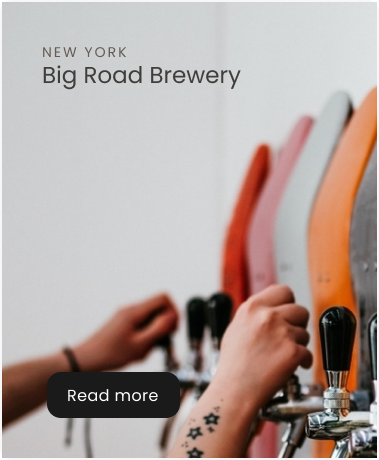
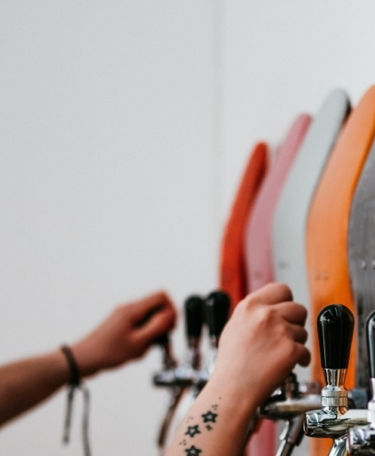
add 9 block and animation grow

diff --git a/src/css/style.min.css b/src/css/style.min.css
@@ -1,1 +1,1 @@
-*{-webkit-box-sizing:border-box;box-sizing:border-box;font-family:Poppins,sans-serif}.container{max-width:1140px;margin:0 auto}.header{padding:36px 20px 35px 32px;min-height:90px;background:#fff;-webkit-box-shadow:11px 11px 25px 0px rgba(9,7,37,.06);box-shadow:11px 11px 25px 0px rgba(9,7,37,.06)}.header__inner{display:-webkit-box;display:-ms-flexbox;display:flex;-webkit-box-pack:justify;-ms-flex-pack:justify;justify-content:space-between;-webkit-box-align:center;-ms-flex-align:center;align-items:center}.header__logo{width:220px;cursor:pointer}.header__logo img{width:100%}.header__wrap{display:-webkit-box;display:-ms-flexbox;display:flex;-ms-flex-pack:distribute;justify-content:space-around;-webkit-box-align:center;-ms-flex-align:center;align-items:center}.header__item{display:-webkit-box;display:-ms-flexbox;display:flex;padding-left:0;margin-bottom:0;list-style-type:none}.header__items{padding-left:32px}.header__items a{text-decoration:none;color:#1b1a1a;font-family:Poppins;font-size:15px;font-weight:400;line-height:24px}.header__items a:hover{font-weight:bold}.header__items:nth-child(1){padding-left:0px}.header__items:nth-child(5){padding-right:32px}.header__btn{width:155px;height:46px;border-radius:14px;background:#1b1a1a;color:#fff;font-family:Poppins;font-size:16px;font-weight:400;line-height:24px;letter-spacing:.4px;cursor:pointer}.header__btn:hover{background-color:#00bfff;-webkit-transition:1.5s ease-in-out;transition:1.5s ease-in-out;-webkit-box-shadow:2px 5px 2px 3px rgba(106,81,94,.35);box-shadow:2px 5px 2px 3px rgba(106,81,94,.35)}.partners{min-height:720px;padding:77px 780px 77px 60px;background:#ece7e4 url(/src/images/bg-1.png) right no-repeat}.partners__wrap{padding:60px 51px 51px 40px}.partners__company title_uppercase{color:#645c55;font-family:Poppins;font-size:14px;font-weight:400;text-transform:uppercase}.partners__title{margin-top:20px;color:#1b1a1a;font-family:Poppins;font-size:64px;font-style:normal;line-height:70.4px}.partners__descr{width:509px;margin-top:18px;color:#403e3b;font-family:Poppins;font-size:16px;font-weight:400;line-height:24px}.partners__excerpt{margin-top:41px;color:#1b1a1a;font-family:Poppins;font-size:16px;font-weight:400;line-height:24px;letter-spacing:.4px}.firm{padding:100px 336px}.firm__wrap{display:-webkit-box;display:-ms-flexbox;display:flex;margin:0 auto;width:768px;height:582px}.firm__title{white-space:nowrap;color:#403e3b;font-family:Poppins;font-size:32px;font-weight:400;line-height:38px}.firm__descr{margin-left:133px}.firm__text{width:493px;margin-top:10px;color:#403e3b;font-family:Poppins;font-size:16px;font-weight:400;line-height:24px}.firm__text:nth-child(1){margin-top:0}.firm__director{display:-webkit-box;display:-ms-flexbox;display:flex;-webkit-box-align:center;-ms-flex-align:center;align-items:center;margin-top:18px}.firm__director-inner{margin-left:30px}.firm__director-name{color:#1b1a1a;font-family:Poppins;font-size:17px;font-weight:400;line-height:26px}.firm__director-position{color:#645c55;font-family:Poppins;font-size:14px;font-weight:400;line-height:14px}.reading{min-height:600px;background:url(/src/images/bg-2.jpg) center center/cover no-repeat;padding:266px 75px 266px 1080px}.reading__text{width:285px}.reading__title{color:#403e3b;font-family:Poppins;font-size:14px;font-weight:400;line-height:20px;letter-spacing:2px;text-transform:uppercase}.reading__descr{color:#645c55;font-family:Poppins;font-size:16px;font-weight:400;line-height:24px}.process{min-height:581px;padding:100px 120px}.process__heading{margin:0 auto;color:#645c55;text-align:center;font-family:Poppins;font-size:14px;font-weight:400;line-height:20px;letter-spacing:2px;text-transform:uppercase}.process__title{text-align:center;margin-top:13px;color:#1b1a1a;text-align:center;font-family:Poppins;font-size:39px;font-weight:400;line-height:42px}.process__inner{display:-webkit-box;display:-ms-flexbox;display:flex;-webkit-box-pack:center;-ms-flex-pack:center;justify-content:center;-webkit-box-align:center;-ms-flex-align:center;align-items:center;margin-top:47px}.process__work{padding:0px 42px 10px 42px;margin-left:16px;width:378px;height:259px}.process__work:nth-child(1){margin-left:0}.process__work-title{margin-top:15px;text-align:center;color:#403e3b;text-align:center;font-family:Poppins;font-size:18px;font-weight:400;line-height:26px}.process__work-descr{margin-top:10px;margin-bottom:0;text-align:center;color:#645c55;text-align:center;font-family:Poppins;font-size:15px;font-weight:400;line-height:24px}.process__img{display:block;margin:0 auto}.stage{min-height:600px;padding:266px 75px 266px 1080px;background:url(/src/images/bg3.png) center center/cover no-repeat}.stage__title{color:#403e3b;font-family:Poppins;font-size:14px;font-weight:400;line-height:20px;letter-spacing:2px;text-transform:uppercase}.stage__descr{color:#645c55;font-family:Poppins;font-size:16px;font-weight:400;line-height:24px}.clients{min-height:410px;padding:100px 320px 100px 136px;background-color:#403e3b}.clients__wrap{display:-webkit-box;display:-ms-flexbox;display:flex;-webkit-box-align:center;-ms-flex-align:center;align-items:center}.clients__costumers{padding:10px 9px 10px 0;width:460px;height:160px}.clients__heading{color:#ece7e4;font-family:Poppins;font-size:14px;font-weight:400;line-height:20px;letter-spacing:2px;text-transform:uppercase}.clients__title{color:#fff;font-family:Poppins;font-size:32px;font-weight:400;line-height:38px}.clients__descr{margin-top:14px;color:#ece7e4;font-family:Poppins;font-size:15px;font-weight:400;line-height:24px}.clients__lables{width:432px;height:290px;display:grid;grid-template-columns:repeat(2, 128px);-webkit-box-align:center;-ms-flex-align:center;align-items:center;gap:96px;padding:40px 40px;margin-left:132px}.staircase{min-height:600px;padding:266px 1095px 266px 60px;background:url(/src/images/bg-4.png) center center/cover no-repeat}.staircase__title{color:#403e3b;font-family:Poppins;font-size:14px;font-weight:400;line-height:20px;letter-spacing:2px;text-transform:uppercase}.staircase__descr{color:#645c55;font-family:Poppins;font-size:16px;font-weight:400;line-height:24px}/*# sourceMappingURL=style.min.css.map */
+@-webkit-keyframes animate-grow{from{-webkit-transform:scale(1);transform:scale(1)}50%{-webkit-transform:scale(1.1);transform:scale(1.1)}to{-webkit-transform:scale(1);transform:scale(1)}}@keyframes animate-grow{from{-webkit-transform:scale(1);transform:scale(1)}50%{-webkit-transform:scale(1.1);transform:scale(1.1)}to{-webkit-transform:scale(1);transform:scale(1)}}*{-webkit-box-sizing:border-box;box-sizing:border-box;font-family:Poppins,sans-serif}.container{max-width:1140px;margin:0 auto}.header{padding:36px 20px 35px 32px;min-height:90px;background:#fff;-webkit-box-shadow:11px 11px 25px 0px rgba(9,7,37,.06);box-shadow:11px 11px 25px 0px rgba(9,7,37,.06)}.header__inner{display:-webkit-box;display:-ms-flexbox;display:flex;-webkit-box-pack:justify;-ms-flex-pack:justify;justify-content:space-between;-webkit-box-align:center;-ms-flex-align:center;align-items:center}.header__logo{width:220px;cursor:pointer}.header__logo img{width:100%}.header__wrap{display:-webkit-box;display:-ms-flexbox;display:flex;-ms-flex-pack:distribute;justify-content:space-around;-webkit-box-align:center;-ms-flex-align:center;align-items:center}.header__item{display:-webkit-box;display:-ms-flexbox;display:flex;padding-left:0;margin-bottom:0;list-style-type:none}.header__items{padding-left:32px}.header__items a{text-decoration:none;color:#1b1a1a;font-family:Poppins;font-size:15px;font-weight:400;line-height:24px}.header__items a:hover{font-weight:bold}.header__items:nth-child(1){padding-left:0px}.header__items:nth-child(5){padding-right:32px}.header__btn{width:155px;height:46px;border-radius:14px;background:#1b1a1a;color:#fff;font-family:Poppins;font-size:16px;font-weight:400;line-height:24px;letter-spacing:.4px;cursor:pointer}.header__btn:hover{background-color:#00bfff;-webkit-transition:1.5s ease-in-out;transition:1.5s ease-in-out;-webkit-box-shadow:2px 5px 2px 3px rgba(106,81,94,.35);box-shadow:2px 5px 2px 3px rgba(106,81,94,.35)}.partners{min-height:720px;padding:77px 780px 77px 60px;background:#ece7e4 url(/src/images/bg-1.png) right no-repeat}.partners__wrap{padding:60px 51px 51px 40px}.partners__company title_uppercase{color:#645c55;font-family:Poppins;font-size:14px;font-weight:400;text-transform:uppercase}.partners__title{margin-top:20px;color:#1b1a1a;font-family:Poppins;font-size:64px;font-style:normal;line-height:70.4px}.partners__descr{width:509px;margin-top:18px;color:#403e3b;font-family:Poppins;font-size:16px;font-weight:400;line-height:24px}.partners__excerpt{margin-top:41px;color:#1b1a1a;font-family:Poppins;font-size:16px;font-weight:400;line-height:24px;letter-spacing:.4px}.firm{padding:100px 336px}.firm__wrap{display:-webkit-box;display:-ms-flexbox;display:flex;margin:0 auto;width:768px;height:582px}.firm__title{white-space:nowrap;color:#403e3b;font-family:Poppins;font-size:32px;font-weight:400;line-height:38px}.firm__descr{margin-left:133px}.firm__text{width:493px;margin-top:10px;color:#403e3b;font-family:Poppins;font-size:16px;font-weight:400;line-height:24px}.firm__text:nth-child(1){margin-top:0}.firm__director{display:-webkit-box;display:-ms-flexbox;display:flex;-webkit-box-align:center;-ms-flex-align:center;align-items:center;margin-top:18px}.firm__director-inner{margin-left:30px}.firm__director-name{color:#1b1a1a;font-family:Poppins;font-size:17px;font-weight:400;line-height:26px}.firm__director-position{color:#645c55;font-family:Poppins;font-size:14px;font-weight:400;line-height:14px}.reading{min-height:600px;background:url(/src/images/bg-2.jpg) center center/cover no-repeat;padding:266px 75px 266px 1080px}.reading__text{width:285px}.reading__title{color:#403e3b;font-family:Poppins;font-size:14px;font-weight:400;line-height:20px;letter-spacing:2px;text-transform:uppercase}.reading__descr{color:#645c55;font-family:Poppins;font-size:16px;font-weight:400;line-height:24px}.process{min-height:581px;padding:100px 120px}.process__heading{margin:0 auto;color:#645c55;text-align:center;font-family:Poppins;font-size:14px;font-weight:400;line-height:20px;letter-spacing:2px;text-transform:uppercase}.process__title{text-align:center;margin-top:13px;color:#1b1a1a;text-align:center;font-family:Poppins;font-size:39px;font-weight:400;line-height:42px}.process__inner{display:-webkit-box;display:-ms-flexbox;display:flex;-webkit-box-pack:center;-ms-flex-pack:center;justify-content:center;-webkit-box-align:center;-ms-flex-align:center;align-items:center;margin-top:47px}.process__work{padding:0px 42px 10px 42px;margin-left:16px;width:378px;height:259px}.process__work:nth-child(1){margin-left:0}.process__work-title{margin-top:15px;text-align:center;color:#403e3b;text-align:center;font-family:Poppins;font-size:18px;font-weight:400;line-height:26px}.process__work-descr{margin-top:10px;margin-bottom:0;text-align:center;color:#645c55;text-align:center;font-family:Poppins;font-size:15px;font-weight:400;line-height:24px}.process__img{display:block;margin:0 auto}.stage{min-height:600px;padding:266px 75px 266px 1080px;background:url(/src/images/bg3.png) center center/cover no-repeat}.stage__title{color:#403e3b;font-family:Poppins;font-size:14px;font-weight:400;line-height:20px;letter-spacing:2px;text-transform:uppercase}.stage__descr{color:#645c55;font-family:Poppins;font-size:16px;font-weight:400;line-height:24px}.clients{min-height:410px;padding:100px 320px 100px 136px;background-color:#403e3b}.clients__wrap{display:-webkit-box;display:-ms-flexbox;display:flex;-webkit-box-align:center;-ms-flex-align:center;align-items:center}.clients__costumers{padding:10px 9px 10px 0;width:460px;height:160px}.clients__heading{color:#ece7e4;font-family:Poppins;font-size:14px;font-weight:400;line-height:20px;letter-spacing:2px;text-transform:uppercase}.clients__title{color:#fff;font-family:Poppins;font-size:32px;font-weight:400;line-height:38px}.clients__descr{margin-top:14px;color:#ece7e4;font-family:Poppins;font-size:15px;font-weight:400;line-height:24px}.clients__lables{width:432px;height:290px;display:grid;grid-template-columns:repeat(2, 128px);-webkit-box-align:center;-ms-flex-align:center;align-items:center;gap:96px;padding:40px 40px;margin-left:132px}.staircase{min-height:600px;padding:266px 1095px 266px 60px;background:url(/src/images/bg-4.png) center center/cover no-repeat}.staircase__title{color:#403e3b;font-family:Poppins;font-size:14px;font-weight:400;line-height:20px;letter-spacing:2px;text-transform:uppercase}.staircase__descr{color:#645c55;font-family:Poppins;font-size:16px;font-weight:400;line-height:24px}.featured{min-height:918px;padding:113px 138px 111px 136px}.featured__title{color:#1b1a1a;font-family:Poppins;font-size:39px;font-weight:400;line-height:42px}.featured__descr{width:581px;margin-top:15px;color:#645c55;font-family:Poppins;font-size:24px;font-weight:400;line-height:30px}.featured__projects{display:-webkit-box;display:-ms-flexbox;display:flex}.featured__project{width:375px;height:456px;margin-top:44px;background-image:url(/src/images/house.png)}.featured__project:hover{cursor:pointer;-webkit-animation:animate-grow 5s infinite linear;animation:animate-grow 5s infinite linear}.featured__project_heading{color:#645c55;font-family:Poppins;font-size:14px;font-weight:400;line-height:20px;letter-spacing:2px;text-transform:uppercase}.featured__project_title{color:#403e3b;font-family:Poppins;font-size:23px;font-weight:400;line-height:30px}.featured__project:nth-child(2){padding:40px 128px 368px 40px;background-image:url(/src/images/big-road.png);margin-left:20px}.featured__project:nth-child(3){background-image:url(/src/images/edge\ house.png);margin-left:20px}.featured__view{cursor:pointer;margin-top:53px;color:#1b1a1a;text-align:center;font-family:Poppins;font-size:16px;font-weight:400;line-height:24px;letter-spacing:.4px}.featured__view:hover{-webkit-transition:.5s ease-in-out;transition:.5s ease-in-out;color:red}/*# sourceMappingURL=style.min.css.map */

diff --git a/src/sass/blocks/_featured.scss b/src/sass/blocks/_featured.scss
@@ -1,0 +1,74 @@
+.featured  {
+    min-height: 918px;
+    padding: 113px 138px 111px 136px;
+    &__title {
+        color: #1B1A1A;
+        font-family: Poppins;
+        font-size: 39px;
+        font-weight: 400;
+        line-height: 42px; 
+    }
+    &__descr {
+        width: 581px;
+        margin-top: 15px;
+        color: #645C55;
+        font-family: Poppins;
+        font-size: 24px;
+        font-weight: 400;
+        line-height: 30px;
+    }
+    &__projects {
+        display: flex;
+    }
+    &__project {
+        width: 375px;
+        height: 456px;
+        margin-top: 44px;
+        background-image: url(/src/images/house.png);
+        &:hover {
+            cursor: pointer;
+            animation: animate-grow 5s infinite linear;
+           
+        }
+        &_heading {
+            color: #645C55;
+            font-family: Poppins;
+            font-size: 14px;
+            font-weight: 400;
+            line-height: 20px;
+            letter-spacing: 2px;
+            text-transform: uppercase;
+        }
+        &_title {
+            color: #403E3B;
+            font-family: Poppins;
+            font-size: 23px;
+            font-weight: 400;
+            line-height: 30px; 
+                    }
+        &:nth-child(2) {
+            padding: 40px 128px 368px 40px;
+            background-image: url(/src/images/big-road.png);
+            margin-left: 20px;
+        }
+        &:nth-child(3) {
+            background-image: url(/src/images/edge\ house.png);
+            margin-left: 20px;
+        }
+    }
+    &__view {
+        cursor: pointer;
+        margin-top: 53px;
+        color: #1B1A1A;
+        text-align: center;
+        font-family: Poppins;
+        font-size: 16px;
+        font-weight: 400;
+        line-height: 24px;
+        letter-spacing: 0.4px;
+        &:hover {
+            transition: 0.5s ease-in-out;
+            color:red;
+        }
+    }
+}

diff --git a/src/index.html b/src/index.html
@@ -143,5 +143,22 @@
             <div class="staircase__descr">Lorem ipsum dolor sit amet, dolor sit amet dolor sit amet.</div>
         </div>
     </section>
+
+    <section class="featured">
+        <div class="container">
+            <div class="featured__title">Featured projects</div>
+            <div class="featured__descr">Some of the latest and greatest projects from us here at Wishbone+Partners.</div>
+            <div class="featured__projects">
+                <div class="featured__project"></div>
+                <div class="featured__project">
+                    <div class="featured__project_heading">New York</div>
+                    <div class="featured__project_title">Big Road Brewery</div>
+                </div>
+                <div class="featured__project"></div>
+            </div>
+            <div class="featured__view">View all projects</div>
+
+        </div>
+    </section>
 </body>
 </html>

diff --git a/src/sass/style.scss b/src/sass/style.scss
@@ -1,4 +1,5 @@
 @import 'base/variables';
+@import 'base/animation';
 
 
 * {
@@ -18,3 +19,4 @@
 @import 'blocks/stage';
 @import 'blocks/clients';
 @import 'blocks/staircase';
+@import 'blocks/featured';

diff --git a/src/sass/base/_animation.scss b/src/sass/base/_animation.scss
@@ -1,0 +1,11 @@
+@keyframes animate-grow {
+    from {
+        transform: scale(1);
+    }
+    50% {
+        transform: scale(1.1);
+    }
+    to {
+        transform: scale(1);
+    }
+}
